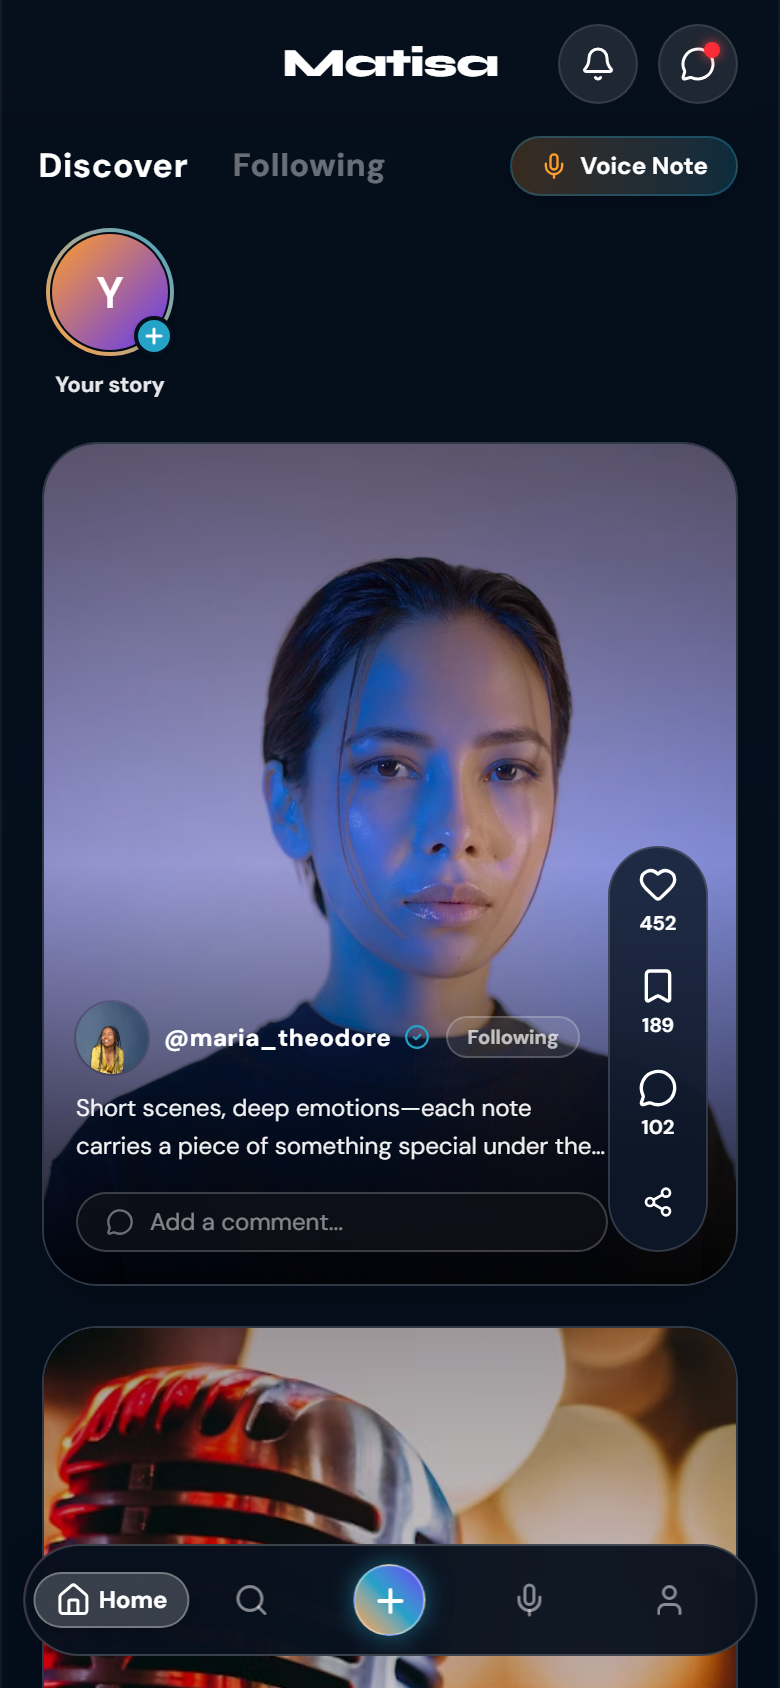
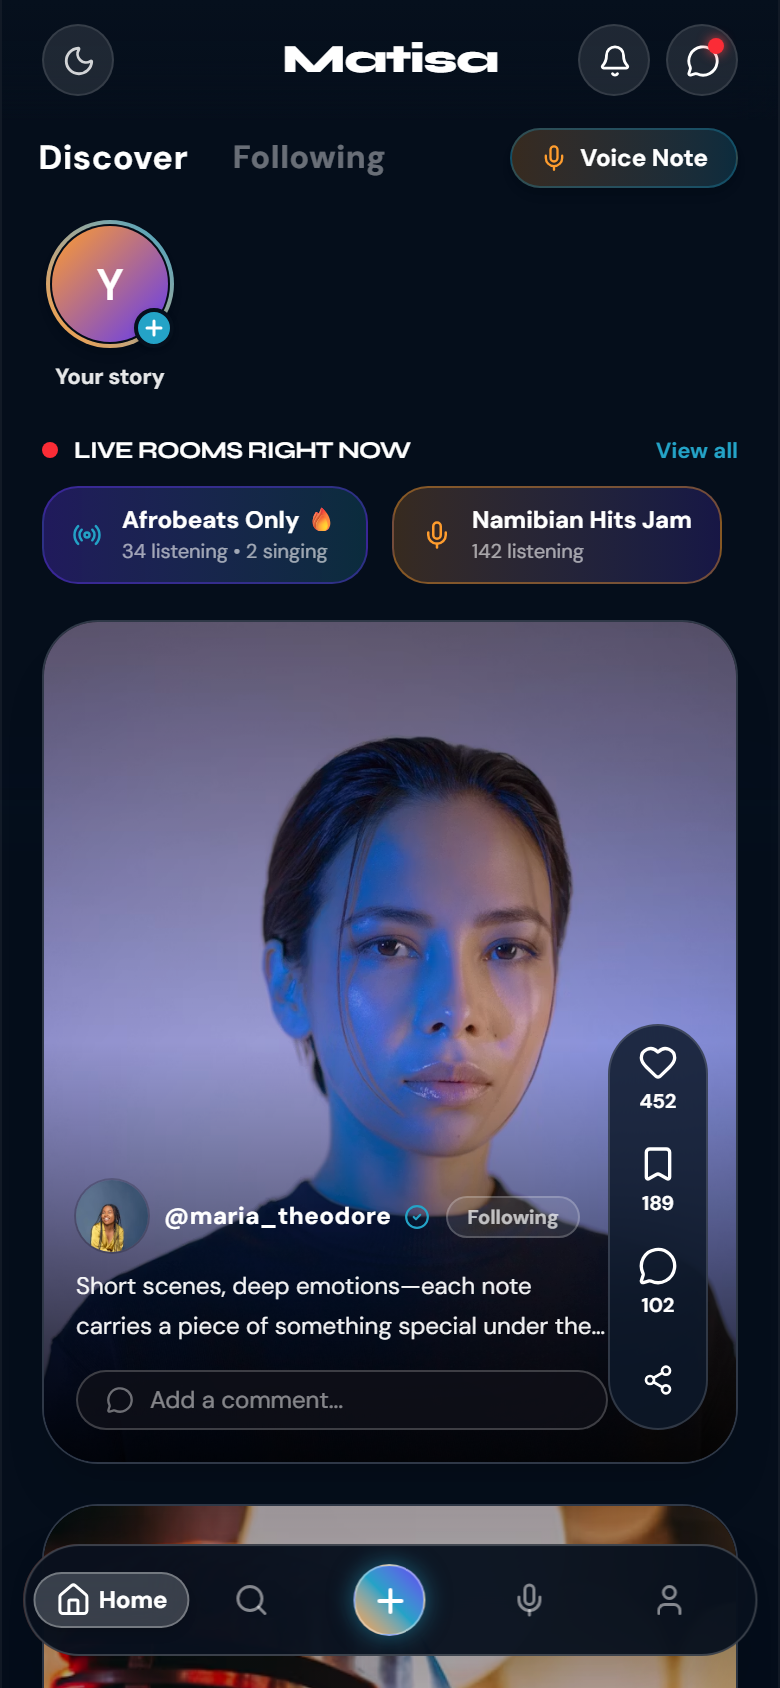
feat(ui): implement Phase 1 refinements - outdoor sunlight theme, unified home feed, and inline voice transcripts

diff --git a/src/components/feed/NoteCard.tsx b/src/components/feed/NoteCard.tsx
@@ -10,6 +10,7 @@ import {
   CheckCircle2,
   UserPlus,
   UserCheck,
+  FileText,
 } from "lucide-react";
 import { useNavigate } from "react-router-dom";
 import { toast } from "sonner";
@@ -261,51 +262,69 @@ export function NoteCard({ note }: NoteCardProps) {
           </p>
         )}
 
-        {/* Voice Note Waveform Player */}
-        {note.type === "voice" && note.audio_url && (
-          <div className="flex items-center gap-3.5 p-3.5 rounded-[18px] bg-gradient-to-r from-[#24A3C7]/15 to-[#6139F2]/15 border border-[#24A3C7]/30 backdrop-blur-md">
-            <button
-              onClick={toggleAudioPlayback}
-              className="flex h-11 w-11 flex-shrink-0 items-center justify-center rounded-full bg-gradient-to-tr from-[#24A3C7] to-[#6139F2] text-white shadow-md active:scale-90 transition"
-              aria-label={isPlaying ? "Pause voice note" : "Play voice note"}
-            >
-              {isPlaying ? (
-                <Pause size={18} fill="white" />
-              ) : (
-                <Play size={18} fill="white" className="ml-0.5" />
-              )}
-            </button>
+        {/* Voice Note Waveform Player & Transcript */}
+        {note.type === "voice" && (
+          <div className="space-y-2">
+            {note.audio_url && (
+              <div className="flex items-center gap-3.5 p-3.5 rounded-[18px] bg-gradient-to-r from-[#24A3C7]/15 to-[#6139F2]/15 border border-[#24A3C7]/30 backdrop-blur-md">
+                <button
+                  onClick={toggleAudioPlayback}
+                  className="flex h-11 w-11 flex-shrink-0 items-center justify-center rounded-full bg-gradient-to-tr from-[#24A3C7] to-[#6139F2] text-white shadow-md active:scale-90 transition"
+                  aria-label={isPlaying ? "Pause voice note" : "Play voice note"}
+                >
+                  {isPlaying ? (
+                    <Pause size={18} fill="white" />
+                  ) : (
+                    <Play size={18} fill="white" className="ml-0.5" />
+                  )}
+                </button>
 
-            <div className="flex-1 flex flex-col gap-1">
-              {/* Animated Waveform */}
-              <div className="relative flex items-center gap-1 h-8 overflow-hidden">
-                {waveformBars.slice(0, 24).map((heightVal, idx) => (
-                  <div
-                    key={idx}
-                    className={`w-1 rounded-full transition-all duration-200 ${
-                      isPlaying ? "bg-[#24A3C7] animate-pulse" : "bg-white/30"
-                    }`}
-                    style={{
-                      height: `${Math.max(20, heightVal)}%`,
-                      animationDelay: `${idx * 0.05}s`,
-                    }}
-                  />
-                ))}
-                {/* Progress bar overlay */}
-                <div
-                  className="absolute inset-y-0 left-0 bg-[#FF9D2E]/30 pointer-events-none rounded-full"
-                  style={{ width: `${progress}%` }}
-                />
-              </div>
+                <div className="flex-1 flex flex-col gap-1">
+                  {/* Animated Waveform */}
+                  <div className="relative flex items-center gap-1 h-8 overflow-hidden">
+                    {waveformBars.slice(0, 24).map((heightVal, idx) => (
+                      <div
+                        key={idx}
+                        className={`w-1 rounded-full transition-all duration-200 ${
+                          isPlaying ? "bg-[#24A3C7] animate-pulse" : "bg-white/30"
+                        }`}
+                        style={{
+                          height: `${Math.max(20, heightVal)}%`,
+                          animationDelay: `${idx * 0.05}s`,
+                        }}
+                      />
+                    ))}
+                    {/* Progress bar overlay */}
+                    <div
+                      className="absolute inset-y-0 left-0 bg-[#FF9D2E]/30 pointer-events-none rounded-full"
+                      style={{ width: `${progress}%` }}
+                    />
+                  </div>
 
-              <div className="flex items-center justify-between text-[10px] text-white/60 font-semibold px-0.5">
-                <span>Voice Note</span>
-                <span>
-                  {note.duration_seconds
-                    ? `${Math.floor(note.duration_seconds / 60)}:${(note.duration_seconds % 60).toString().padStart(2, "0")}`
-                    : "0:30"}
-                </span>
+                  <div className="flex items-center justify-between text-[10px] text-white/60 font-semibold px-0.5">
+                    <span>Voice Note</span>
+                    <span>
+                      {note.duration_seconds
+                        ? `${Math.floor(note.duration_seconds / 60)}:${(note.duration_seconds % 60).toString().padStart(2, "0")}`
+                        : "0:30"}
+                    </span>
+                  </div>
+                </div>
               </div>
+            )}
+
+            {/* Skimmable Voice Transcript Block */}
+            <div className="px-3.5 py-2.5 rounded-[16px] bg-white/5 border border-white/10 text-xs text-white/90 space-y-1">
+              <div className="flex items-center gap-1.5 text-[10px] font-bold text-[#24A3C7] uppercase tracking-wider">
+                <FileText size={12} /> Transcript
+              </div>
+              <p className="italic leading-relaxed text-white/85">
+                "
+                {note.transcript ||
+                  note.content ||
+                  "Windhoek acoustic session dropping live tonight..."}
+                "
+              </p>
             </div>
           </div>
         )}

diff --git a/src/components/layout/TopNavigation.tsx b/src/components/layout/TopNavigation.tsx
@@ -1,8 +1,10 @@
-import { Bell, MessageCircle } from "lucide-react";
+import { Bell, MessageCircle, Sun, Moon } from "lucide-react";
 import { useNavigate } from "react-router-dom";
+import { useTheme } from "@/contexts/ThemeContext";
 
 export function TopNavigation() {
   const navigate = useNavigate();
+  const { isOutdoorMode, toggleOutdoorMode } = useTheme();
 
   return (
     <header
@@ -11,8 +13,21 @@ export function TopNavigation() {
         paddingTop: "calc(12px + env(safe-area-inset-top))",
       }}
     >
-      {/* 1. Left Spacer (Width matched to right column for absolute center) */}
-      <div className="flex items-center justify-start" />
+      {/* 1. Left Action: Outdoor Sunlight Mode Toggle */}
+      <div className="flex items-center justify-start">
+        <button
+          onClick={toggleOutdoorMode}
+          className={`flex h-9 w-9 items-center justify-center rounded-full transition active:scale-95 border ${
+            isOutdoorMode
+              ? "bg-amber-500/20 text-amber-500 border-amber-500/30"
+              : "bg-white/10 text-white/80 border-white/10 hover:bg-white/20"
+          }`}
+          title={isOutdoorMode ? "Switch to Sleek Dark Mode" : "Switch to Sunlight Outdoor Mode"}
+          aria-label="Toggle Outdoor Sunlight Contrast Mode"
+        >
+          {isOutdoorMode ? <Sun size={17} /> : <Moon size={17} />}
+        </button>
+      </div>
 
       {/* 2. Absolute Centered Brand Title */}
       <div className="flex items-center justify-center">
@@ -27,22 +42,22 @@ export function TopNavigation() {
       </div>
 
       {/* 3. Right Header Actions */}
-      <div className="flex items-center justify-end gap-2.5">
+      <div className="flex items-center justify-end gap-2">
         <button
           onClick={() => navigate("/activity")}
-          className="flex h-10 w-10 items-center justify-center rounded-full bg-white/10 text-white hover:bg-white/20 transition active:scale-95 border border-white/10"
+          className="flex h-9 w-9 items-center justify-center rounded-full bg-white/10 text-white hover:bg-white/20 transition active:scale-95 border border-white/10"
           aria-label="Notifications"
         >
-          <Bell size={18} />
+          <Bell size={17} />
         </button>
 
         <button
           onClick={() => navigate("/messages")}
-          className="relative flex h-10 w-10 items-center justify-center rounded-full bg-white/10 text-white hover:bg-white/20 transition active:scale-95 border border-white/10"
+          className="relative flex h-9 w-9 items-center justify-center rounded-full bg-white/10 text-white hover:bg-white/20 transition active:scale-95 border border-white/10"
           aria-label="Messages"
         >
-          <MessageCircle size={18} />
-          <span className="absolute top-2 right-2 h-2 w-2 rounded-full bg-red-500 shadow-[0_0_6px_rgba(239,68,68,0.9)]" />
+          <MessageCircle size={17} />
+          <span className="absolute top-1.5 right-1.5 h-2 w-2 rounded-full bg-red-500 shadow-[0_0_6px_rgba(239,68,68,0.9)]" />
         </button>
       </div>
     </header>

diff --git a/src/pages/Home.tsx b/src/pages/Home.tsx
@@ -240,7 +240,56 @@ export function Home() {
         })}
       </div>
 
-      {/* 3. Feed Cards Section */}
+      {/* 3. Compact Live Now Horizontal Strip */}
+      <div className="px-5 mb-4">
+        <div className="flex items-center justify-between mb-2">
+          <div className="flex items-center gap-2">
+            <span className="relative flex h-2 w-2">
+              <span className="animate-ping absolute inline-flex h-full w-full rounded-full bg-red-400 opacity-75" />
+              <span className="relative inline-flex rounded-full h-2 w-2 bg-red-500" />
+            </span>
+            <span className="text-xs font-bold text-white tracking-wide uppercase font-display">
+              Live Rooms Right Now
+            </span>
+          </div>
+          <button
+            onClick={() => navigate("/rooms")}
+            className="text-[11px] font-bold text-[#24A3C7] hover:underline"
+          >
+            View all
+          </button>
+        </div>
+
+        <div className="flex items-center gap-3 overflow-x-auto no-scrollbar py-0.5">
+          <button
+            onClick={() => navigate("/rooms/demo-room-1")}
+            className="flex items-center gap-2.5 px-3.5 py-2 rounded-[18px] bg-gradient-to-r from-[#6139F2]/30 to-[#24A3C7]/20 border border-[#6139F2]/40 hover:border-[#6139F2]/70 transition active:scale-95 flex-shrink-0"
+          >
+            <Radio size={15} className="text-[#24A3C7] animate-pulse" />
+            <div className="text-left">
+              <div className="text-xs font-bold text-white truncate max-w-[140px]">
+                Afrobeats Only 🔥
+              </div>
+              <div className="text-[10px] text-white/60">34 listening • 2 singing</div>
+            </div>
+          </button>
+
+          <button
+            onClick={() => navigate("/rooms/demo-room-1")}
+            className="flex items-center gap-2.5 px-3.5 py-2 rounded-[18px] bg-gradient-to-r from-[#FF9D2E]/20 to-[#6139F2]/20 border border-[#FF9D2E]/40 hover:border-[#FF9D2E]/70 transition active:scale-95 flex-shrink-0"
+          >
+            <Mic size={15} className="text-[#FF9D2E] animate-pulse" />
+            <div className="text-left">
+              <div className="text-xs font-bold text-white truncate max-w-[140px]">
+                Namibian Hits Jam
+              </div>
+              <div className="text-[10px] text-white/60">142 listening</div>
+            </div>
+          </button>
+        </div>
+      </div>
+
+      {/* 4. Unified Feed Stream */}
       <AnimatePresence mode="wait">
         <motion.div
           key={feedTab}

diff --git a/src/App.tsx b/src/App.tsx
@@ -2,33 +2,36 @@ import { Suspense } from "react";
 import { BrowserRouter } from "react-router-dom";
 import { AuthProvider } from "@/contexts/AuthContext";
 import { VoiceProvider } from "@/contexts/VoiceContext";
+import { ThemeProvider } from "@/contexts/ThemeContext";
 import { FloatingVoicePlayer } from "@/components/voice/FloatingVoicePlayer";
 import { AppRoutes } from "@/app/routes";
 import { Toaster } from "sonner";
 
 export default function App() {
   return (
-    <AuthProvider>
-      <VoiceProvider>
-        <BrowserRouter>
-          <Suspense
-            fallback={
-              <div className="flex min-h-screen items-center justify-center bg-[#06101D] text-white">
-                <div className="flex flex-col items-center gap-3">
-                  <div className="h-8 w-8 animate-spin rounded-full border-2 border-[#FF9D2E] border-t-transparent shadow-[0_0_12px_rgba(255,157,70,0.5)]" />
-                  <span className="text-xs font-bold tracking-widest text-white/70 font-display">
-                    MATISA
-                  </span>
+    <ThemeProvider>
+      <AuthProvider>
+        <VoiceProvider>
+          <BrowserRouter>
+            <Suspense
+              fallback={
+                <div className="flex min-h-screen items-center justify-center bg-[#06101D] text-white">
+                  <div className="flex flex-col items-center gap-3">
+                    <div className="h-8 w-8 animate-spin rounded-full border-2 border-[#FF9D2E] border-t-transparent shadow-[0_0_12px_rgba(255,157,70,0.5)]" />
+                    <span className="text-xs font-bold tracking-widest text-white/70 font-display">
+                      MATISA
+                    </span>
+                  </div>
                 </div>
-              </div>
-            }
-          >
-            <AppRoutes />
-            <FloatingVoicePlayer />
-          </Suspense>
-          <Toaster position="top-center" theme="dark" />
-        </BrowserRouter>
-      </VoiceProvider>
-    </AuthProvider>
+              }
+            >
+              <AppRoutes />
+              <FloatingVoicePlayer />
+            </Suspense>
+            <Toaster position="top-center" theme="dark" />
+          </BrowserRouter>
+        </VoiceProvider>
+      </AuthProvider>
+    </ThemeProvider>
   );
 }

diff --git a/src/contexts/ThemeContext.tsx b/src/contexts/ThemeContext.tsx
@@ -1,0 +1,40 @@
+import { createContext, useContext, useEffect, useState, ReactNode } from "react";
+
+interface ThemeContextType {
+  isOutdoorMode: boolean;
+  toggleOutdoorMode: () => void;
+}
+
+const ThemeContext = createContext<ThemeContextType>({
+  isOutdoorMode: false,
+  toggleOutdoorMode: () => {},
+});
+
+export function ThemeProvider({ children }: { children: ReactNode }) {
+  const [isOutdoorMode, setIsOutdoorMode] = useState<boolean>(() => {
+    return localStorage.getItem("matisa_theme_outdoor") === "true";
+  });
+
+  useEffect(() => {
+    localStorage.setItem("matisa_theme_outdoor", String(isOutdoorMode));
+    if (isOutdoorMode) {
+      document.documentElement.classList.add("light-outdoor");
+      document.body.classList.add("light-outdoor");
+    } else {
+      document.documentElement.classList.remove("light-outdoor");
+      document.body.classList.remove("light-outdoor");
+    }
+  }, [isOutdoorMode]);
+
+  const toggleOutdoorMode = () => setIsOutdoorMode((prev) => !prev);
+
+  return (
+    <ThemeContext.Provider value={{ isOutdoorMode, toggleOutdoorMode }}>
+      {children}
+    </ThemeContext.Provider>
+  );
+}
+
+export function useTheme() {
+  return useContext(ThemeContext);
+}

diff --git a/src/index.css b/src/index.css
@@ -38,6 +38,45 @@
   --radius-xl: 32px;
 }
 
+.light-outdoor {
+  --color-background: #f8fafc;
+  --color-foreground: #0f172a;
+  --color-surface: #ffffff;
+  --color-surface-2: #f1f5f9;
+  --color-surface-3: #e2e8f0;
+  --color-primary: #d97706;
+  --color-primary-light: #f59e0b;
+  --color-primary-dark: #b45309;
+  --color-text: #0f172a;
+  --color-text-muted: #475569;
+  --color-text-dark: #64748b;
+  --color-border: rgba(0, 0, 0, 0.12);
+  --color-border-hover: rgba(0, 0, 0, 0.2);
+}
+
+.light-outdoor .glass-panel {
+  background: rgba(255, 255, 255, 0.92) !important;
+  border-color: rgba(0, 0, 0, 0.1) !important;
+  color: #0f172a !important;
+}
+
+.light-outdoor .glass-panel-elevated {
+  background: rgba(255, 255, 255, 0.98) !important;
+  border-color: rgba(0, 0, 0, 0.15) !important;
+  color: #0f172a !important;
+}
+
+.light-outdoor .glass-header {
+  background: rgba(255, 255, 255, 0.92) !important;
+  border-bottom-color: rgba(0, 0, 0, 0.1) !important;
+}
+
+.light-outdoor .glass-nav {
+  background: rgba(255, 255, 255, 0.95) !important;
+  border-color: rgba(0, 0, 0, 0.15) !important;
+}
+
+
 html, body, #root {
   height: 100%;
   background-color: var(--color-background);

diff --git a/src/services/NoteService.ts b/src/services/NoteService.ts
@@ -12,6 +12,8 @@ export interface Note {
   audio_url?: string;
   duration_seconds?: number;
   waveform_data?: number[];
+  transcript?: string;
+
   profiles?: {
     id: string;
     username: string;
